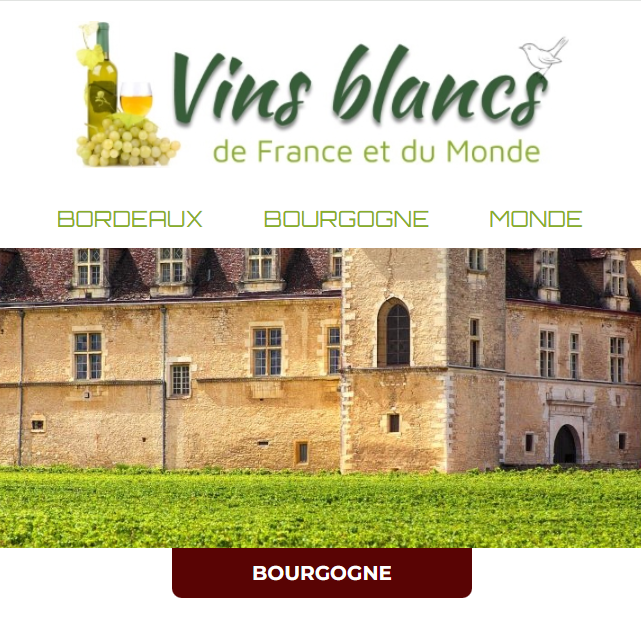
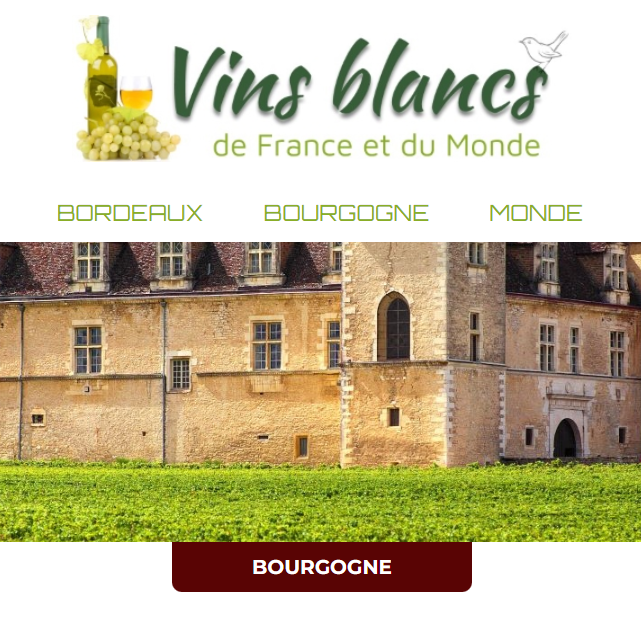
modification

Changed region(s): [[0.0, 0.303, 1.0, 0.9394], [0.0936, 0.0, 0.9048, 0.2727]]

diff --git a/styles/styles.css b/styles/styles.css
@@ -132,7 +132,7 @@ a {
 }
 
 .container {
-    background: rgb(255, 255, 255);
+    background: #ffffff;
     display: flex;
 }
 
@@ -245,6 +245,7 @@ main {
 .sectioncontenuimage {
   display: flex;
   align-items: center;
+  height: 90vh;
 }
 .imagefonddiv {
   width: 100%;
@@ -256,15 +257,17 @@ main {
 }
 /* style 4 métiers bloc central */
 .blocprofessions{
-  height: 100vh;
-  display: flex;
-  flex-direction: column;
-  justify-content: center;
-  margin: 0 auto;
+  width: 100%;
+  height: 100%;
+  /* display: flex; */
+  /* flex-direction: column; */
+  /* justify-content: center; */
+  align-content: center;
+  /* margin: 0 auto; */
   padding: 0px 0px 0px 60px;
 }
 .professions {
-  width: 100vh;
+  /* width: 100vh; */
   font-family: "Kanit", sans-serif;
   font-size:80px;
   line-height: 90px;
@@ -349,7 +352,7 @@ main {
   justify-content: center;
 }
 .infosfondblanc {
-  width: 700px;
+  width: 70%;
   display: flex;
   align-items: left;
   justify-content: left;
@@ -381,7 +384,7 @@ main {
 
 /* style page creations */   
 .bloccreations{
-  width: 100%;
+  /* width: 100%; */
   height: 100%;
   display: flex;
   flex-direction: column;
@@ -390,7 +393,7 @@ main {
   padding: 30px 0px 0px 0px;
 }
 .bloccreations2{
-  width: 100vh;
+  /* width: 100vh; */
   display: flex;
   flex-direction: column;
   justify-content: center;
@@ -398,7 +401,7 @@ main {
   margin: 0 auto;
 }
 .titrecreations {
-  width: 100vh;
+  /* width: 100vh; */
   font-family: "Kanit", sans-serif;
   font-size:70px;
   line-height: 80px;
@@ -414,8 +417,8 @@ main {
   margin: 0 auto;
   gap: 40px;
   padding: 0px 0px 40px 0px;
-  width: 100vh;
-  /* flex-direction: column; */
+  width: 100%;
+  flex-direction: column;
   justify-content: center;
   align-items: center;
 }
@@ -426,11 +429,13 @@ main {
   box-shadow: 0 2px 4px rgba(0, 0, 0, 0.1);
   /* padding: 20px; */
   gap: 20px;
-  width: 400px;
-  height: 600px;
+  width: 50%;
+  height: 100%;
+  flex-direction: column;
+
 }
 .containerimage {
-  width: 400px;
+  width: 100%;
   height: 330px;
 }
 .image {
@@ -441,6 +446,7 @@ main {
   padding: 10px;
 }
 .travaux {
+  width: 100%;
   color: #000000;
   font-weight: 300;
   font-size: 40px;
@@ -449,6 +455,7 @@ main {
   padding: 20px 0px 10px 0px;
 }
 .description {
+  width: 100%;
   font-size: 1em;
   line-height: 20px;
   color:#000000;
@@ -458,6 +465,9 @@ main {
 .boutonensavoirplus{
   height: 15px;
 }
+
+
+
 
 
 /* style page emailing */
@@ -553,7 +563,7 @@ main {
 
 /* style page parcours professionnel */   
 .containertxtparcours{
-  width: 700px;
+  width: 100%;
 }
 .blocparcours{
   width: 100%;
@@ -564,22 +574,21 @@ main {
   padding: 30px 0px 0px 0px;
 }
 .sectioncouleurblanc{
-  width: 100%;
+  width: 70%;
   height: 100%;
   background-color: #ffffff;
   padding: 20px 20px 20px 20px;
-  margin: 20px 0px 20px 0px;
+  margin: 0 auto;
 }
 .sectioncouleurvert{
-  width: 100%;
+  width: 70%;
   height: 100%;
   background-color: #edf1cc;
   padding: 20px 20px 20px 20px;
-  margin: 20px 0px 20px 0px;
-  border-radius: 30px 0px 30px 0px;
+  border-radius: 40px 0px 40px 0px;
+  margin: 0 auto;
 }
 .titreparcours {
-  width: 100%;
   font-family: "Kanit", sans-serif;
   font-size:70px;
   line-height: 80px;
@@ -892,15 +901,9 @@ resize: vertical;
 
 
 
-
-
-
-
-
-
 /* @media (max-width: 800px) */
 
-@media only screen and (max-width: 650px){
+@media only screen and (max-width: 800px){
 .container {
   width: 100%;
   flex-direction: column;
@@ -990,8 +993,9 @@ nav {
 
 /* Section image de fond et titre métiers DISPARAIT*/
 .sectioncontenuimage {
-  display: flex;
-  align-items: center;
+  display: none;
+  /* display: flex;
+  align-items: center; */
 }
 .imagefonddiv {
   display: none;
@@ -1005,16 +1009,16 @@ nav {
 /* style 4 métiers bloc central */
 .blocprofessions{
   display: none;
-  height: 100vh;
+  /* height: 100vh;
   display: flex;
   flex-direction: column;
   justify-content: center;
   margin: 0 auto;
-  padding: 0px 0px 0px 60px;
+  padding: 0px 0px 0px 60px; */
 }
 .professions {
   display: none;
-  width: 100vh;
+  /* width: 100vh;
   font-family: "Kanit", sans-serif;
   font-size:70px;
   line-height: 80px;
@@ -1022,7 +1026,7 @@ nav {
   text-align: left;
   color: #000000;
   padding: 0px 0px 20px 0px;
-  text-shadow: 2px 2px 5px rgba(205, 220, 41, 2);
+  text-shadow: 2px 2px 5px rgba(205, 220, 41, 2); */
 }
 .flecheverteprofessions {
   display: none;
@@ -1081,7 +1085,7 @@ nav {
   flex-direction: column;
 } 
 .imagegraphiste {
-  width: 400px;
+  width: 100%;
   height: 370px;
   display: flex;
   align-items: center;
@@ -1222,21 +1226,21 @@ nav {
   padding: 30px 0px 0px 0px;
 }
 .sectioncouleurblanc{
-  width: 300px;
+  width: 90%;
   height: 100%;
   background-color: #ffffff;
   padding: 20px 0px 20px 0px;
   /* margin: 0 auto; */
 }
 .sectioncouleurvert{
-  width: 300px;
+  width: 90%;
   height: 100%;
   background-color: #edf1cc;
   padding: 20px 0px 20px 0px;
   /* margin: 0 auto; */
 }
 .containertxtparcours{
-  width: 300px;
+  width: 100%;
   padding: 0px 0px 0px 0px;
 }
 .titreparcours {
